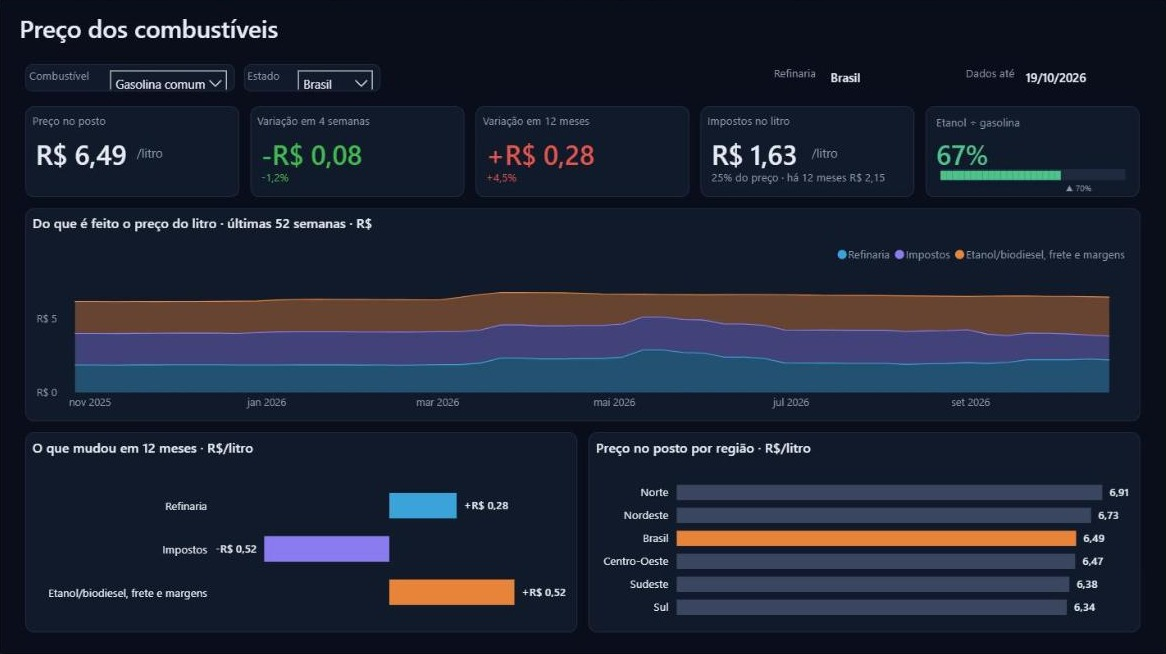
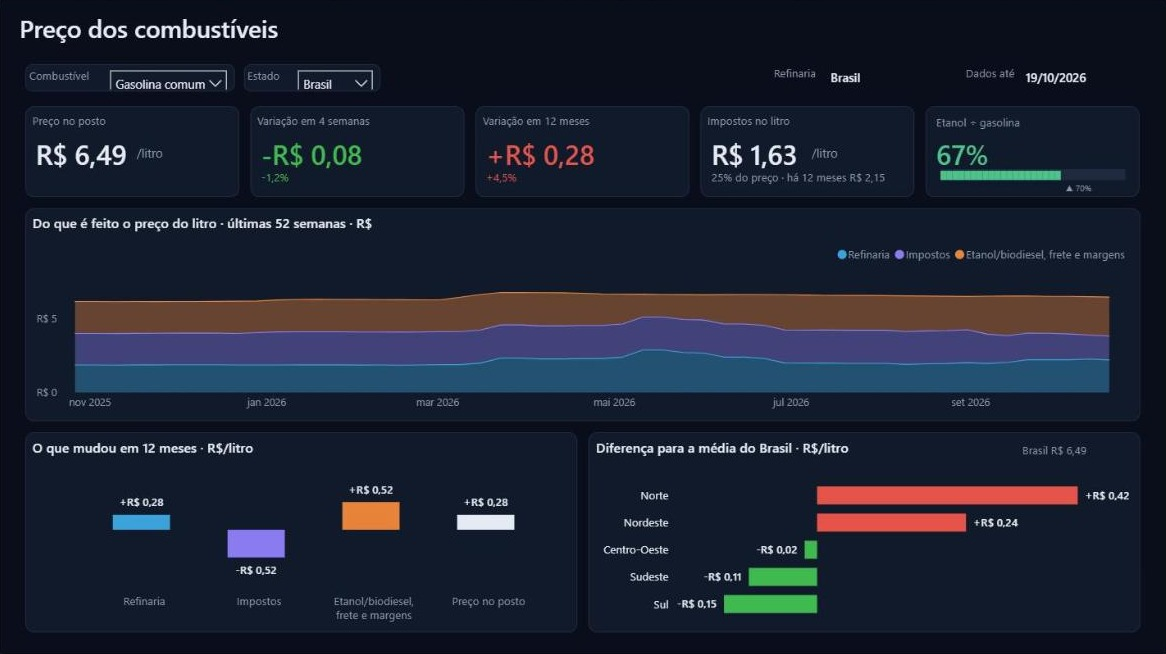
README e indicadores com os gráficos novos da faixa de baixo

diff --git a/docs/indicadores.md b/docs/indicadores.md
@@ -43,10 +43,10 @@ As três partes empilhadas somam o preço no posto de cada semana:
 - **Etanol/biodiesel, frete e margens**: o que sobra (preço no posto − refinaria − impostos).
 
 ### O que mudou em 12 meses
-Variação de cada parte entre a semana de referência e a de 52 semanas antes. Gasolina, Brasil: refinaria +R$ 0,28, impostos −R$ 0,52, etanol/biodiesel, frete e margens +R$ 0,52.
+Variação de cada parte entre a semana de referência e a de 52 semanas antes, e na última coluna o resultado no posto. Gasolina, Brasil: refinaria +R$ 0,28, impostos −R$ 0,52, etanol/biodiesel, frete e margens +R$ 0,52; preço no posto +R$ 0,28.
 
-### Preço no posto por região
-Preço médio de cada região (média dos postos pesquisados nos estados dela) e do Brasil, na semana de referência. A região do estado escolhido fica em laranja.
+### Diferença para a média do Brasil
+Preço médio de cada região (média dos postos pesquisados nos estados dela) menos o do Brasil, na semana de referência. Vermelho: mais caro que a média; verde: mais barato. Com um estado escolhido, ele aparece em laranja. Gasolina: Norte +R$ 0,42, Nordeste +R$ 0,24, Centro-Oeste −R$ 0,02, Sudeste −R$ 0,11, Sul −R$ 0,15; SP −R$ 0,14.
 
 ## Método e conferência
 

diff --git a/README.md b/README.md
@@ -86,7 +86,7 @@ A mesma análise roda para cada município do RS com pelo menos 5 postos pesquis
 
 ## Relatório
 
-Uma página, em tema escuro, sem textos de apoio: cinco cartões (preço no posto, variação em 4 semanas e em 12 meses, impostos no litro e etanol ÷ gasolina, que vira a variação da refinaria quando o diesel é escolhido), a composição do preço semana a semana, o que mudou em cada parte em 12 meses e o preço por região. Filtros de combustível (gasolina comum ou diesel S10) e de estado.
+Uma página, em tema escuro, sem textos de apoio: cinco cartões (preço no posto, variação em 4 semanas e em 12 meses, impostos no litro e etanol ÷ gasolina, que vira a variação da refinaria quando o diesel é escolhido), a composição do preço semana a semana, o que mudou em cada parte em 12 meses (com o resultado no posto) e a diferença de cada região para a média do Brasil, com o estado escolhido em destaque. Filtros de combustível (gasolina comum ou diesel S10) e de estado.
 
 ## Como rodar
 

diff --git a/README.en.md b/README.en.md
@@ -86,7 +86,7 @@ The same analysis runs for each RS city with at least 5 surveyed stations in the
 
 ## Report
 
-One page, dark theme, no explanatory text: five cards (pump price, change over 4 weeks and 12 months, taxes per liter and ethanol ÷ gasoline, which becomes the refinery change when diesel is selected), the weekly price breakdown, what changed in each part over 12 months and the price by region. Filters for fuel (regular gasoline or S10 diesel) and state.
+One page, dark theme, no explanatory text: five cards (pump price, change over 4 weeks and 12 months, taxes per liter and ethanol ÷ gasoline, which becomes the refinery change when diesel is selected), the weekly price breakdown, what changed in each part over 12 months (ending with the pump price) and each region's difference from the Brazil average, with the selected state highlighted. Filters for fuel (regular gasoline or S10 diesel) and state.
 
 ## How to run
 
